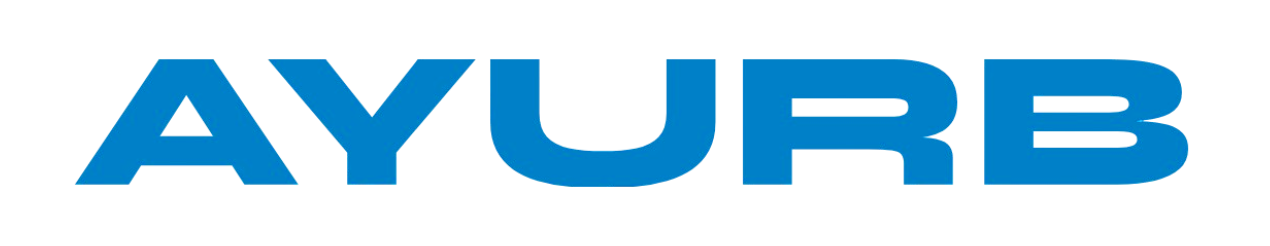
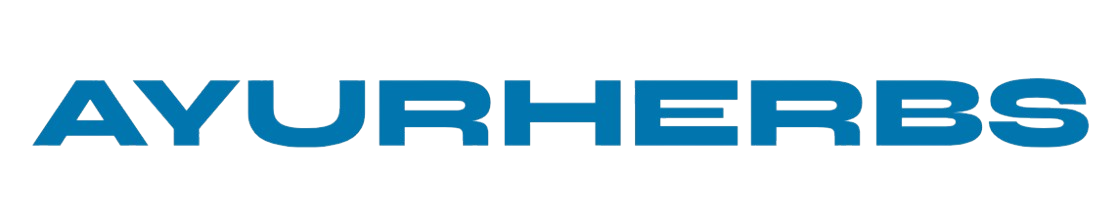
3 Changes
Added Quiz and fixed PopupStylings and Changes logo

diff --git a/src/pages/Home.jsx b/src/pages/Home.jsx
@@ -1,6 +1,7 @@
 import React, { useState } from 'react';
 import PlantCard from '../components/PlantCard';
 import Footer from '../components/Footer';
+import QuizPopup from '../components/QuizPopup';
 
 function Home() {
   // State to handle filter panel visibility
@@ -73,18 +74,18 @@ function Home() {
 
   // Plant data
   const plants = [
-    { imageSrc: '/images/tulsi.png', name: 'Tulsi', region: 'Tropical', type: 'Herb', ayush: 'Ayurveda', description: 'Tulsi, also known as holy basil, is a revered plant in Ayurveda known for its healing properties.', sketchfabModelUrl: 'https://sketchfab.com/models/3272493ccf6c4ede895f259905ef1db8/embed?autospin=1&autostart=1' },
-    { imageSrc: '/images/neem.png', name: 'Neem', region: 'Tropical', type: 'Tree', ayush: 'Ayurveda', description: 'Neem is a fast-growing tree used in traditional medicine for its antibacterial properties.', sketchfabModelUrl: 'https://sketchfab.com/models/03edef8009d942d3a3db6fa64cecbe56/embed?autospin=1&autostart=1' },
-    { imageSrc: '/images/aloevera.png', name: 'Aloe Vera', region: 'Tropical', type: 'Succulent', ayush: 'Ayurveda', description: 'Ashwagandha is a powerful herb in Ayurveda, known for its stress-relieving properties.', sketchfabModelUrl: 'https://sketchfab.com/models/66c6699e50ab4863989777f920a981dd/embed?autospin=1&autostart=1' },
-    { imageSrc: '/images/lavender.png', name: 'Lavender', region: 'Mediterranean', type: 'Flowering Plant', ayush: 'Naturopathy', description: 'Ashwagandha is a powerful herb in Ayurveda, known for its stress-relieving properties.', sketchfabModelUrl: 'https://sketchfab.com/models/08f35ae30b924678955b4bb483b86a70/embed?autospin=1&autostart=1' },
-    { imageSrc: '/images/sage.png', name: 'Sage', region: 'Temperate', type: 'Herb', ayush: 'Ayurveda', description: 'Ashwagandha is a powerful herb in Ayurveda, known for its stress-relieving properties.', sketchfabModelUrl: 'https://sketchfab.com/models/f41f028de9ca4be2b2e85df0820508ae/embed?autospin=1&autostart=1' },
-    { imageSrc: '/images/cactus.png', name: 'Cactus', region: 'Arid', type: 'Succulent', ayush: 'Naturopathy', description: 'Ashwagandha is a powerful herb in Ayurveda, known for its stress-relieving properties.', sketchfabModelUrl: 'https://sketchfab.com/models/01d773057954447a9abb7ae0c6c052af/embed?autospin=1&autostart=1' },
-    { imageSrc: '/images/dandelions.png', name: 'Dandelion', region: 'North America', type: 'Flowering Plant', ayush: 'Homeopathy', description: 'Ashwagandha is a powerful herb in Ayurveda, known for its stress-relieving properties.', sketchfabModelUrl: 'https://sketchfab.com/models/8a93f08947a4499b9ed19d2d47323242/embed?autospin=1&autostart=1' },
-    { imageSrc: '/images/eucalyptus.png', name: 'Eucalyptus', region: 'Temperate', type: 'Tree', ayush: 'Ayurveda', description: 'Ashwagandha is a powerful herb in Ayurveda, known for its stress-relieving properties.', sketchfabModelUrl: 'https://sketchfab.com/models/d021e7909df44e03b976c1374bfab9dc/embed?autospin=1&autostart=1' },
-    { imageSrc: '/images/hibiscus.png', name: 'Hibiscus', region: 'Tropical', type: 'Flowering Plant', ayush: 'Ayurveda', description: 'Ashwagandha is a powerful herb in Ayurveda, known for its stress-relieving properties.', sketchfabModelUrl: 'https://sketchfab.com/models/8992b6b94b094a069930104a32d5e9f5/embed?autospin=1&autostart=1' },
-    { imageSrc: '/images/rosemary.png', name: 'Rosemary', region: 'Mediterranean', type: 'Herb', ayush: 'Naturopathy', description: 'Ashwagandha is a powerful herb in Ayurveda, known for its stress-relieving properties.', sketchfabModelUrl: 'https://sketchfab.com/models/d5c0f249ff8a4d13840abf681bb92d29/embed?autospin=1&autostart=1' },
-    { imageSrc: '/images/ashwagandha.jpg', name: 'Ashwagandha', region: 'Arid', type: 'Shrub', ayush: 'Ayurveda', description: 'Ashwagandha is a powerful herb in Ayurveda, known for its stress-relieving properties.', sketchfabModelUrl: 'https://sketchfab.com/models/88b1bf03a6254dc2b56cec4dce3f22f1/embed?autospin=1&autostart=1' },
-    { imageSrc: '/images/ginger.png', name: 'Ginger', region: 'Tropical', type: 'Herb', ayush: 'Ayurveda', description: 'Ashwagandha is a powerful herb in Ayurveda, known for its stress-relieving properties.', sketchfabModelUrl: 'https://sketchfab.com/models/de8da99c3c1742708cd4ea858750b881/embed?autospin=1&autostart=1' },
+    { imageSrc: '/images/tulsi.png', name: 'Tulsi', region: 'Tropical', type: 'Herb', habitat: 'Ayurveda', description: 'Tulsi, also known as holy basil, is a revered plant in Ayurveda known for its healing properties.', sketchfabModelUrl: 'https://sketchfab.com/models/3272493ccf6c4ede895f259905ef1db8/embed?autospin=1&autostart=1' },
+    { imageSrc: '/images/neem.png', name: 'Neem', region: 'Tropical', type: 'Tree', habitat: 'Ayurveda', description: 'Neem is a fast-growing tree used in traditional medicine for its antibacterial properties.', sketchfabModelUrl: 'https://sketchfab.com/models/03edef8009d942d3a3db6fa64cecbe56/embed?autospin=1&autostart=1' },
+    { imageSrc: '/images/aloevera.png', name: 'Aloe Vera', region: 'Tropical', type: 'Succulent', habitat: 'Ayurveda', description: 'Ashwagandha is a powerful herb in Ayurveda, known for its stress-relieving properties.', sketchfabModelUrl: 'https://sketchfab.com/models/66c6699e50ab4863989777f920a981dd/embed?autospin=1&autostart=1' },
+    { imageSrc: '/images/lavender.png', name: 'Lavender', region: 'Mediterranean', type: 'Flowering Plant', habitat: 'Naturopathy', description: 'Ashwagandha is a powerful herb in Ayurveda, known for its stress-relieving properties.', sketchfabModelUrl: 'https://sketchfab.com/models/08f35ae30b924678955b4bb483b86a70/embed?autospin=1&autostart=1' },
+    { imageSrc: '/images/sage.png', name: 'Sage', region: 'Temperate', type: 'Herb', habitat: 'Ayurveda', description: 'Ashwagandha is a powerful herb in Ayurveda, known for its stress-relieving properties.', sketchfabModelUrl: 'https://sketchfab.com/models/f41f028de9ca4be2b2e85df0820508ae/embed?autospin=1&autostart=1' },
+    { imageSrc: '/images/cactus.png', name: 'Cactus', region: 'Arid', type: 'Succulent', habitat: 'Naturopathy', description: 'Ashwagandha is a powerful herb in Ayurveda, known for its stress-relieving properties.', sketchfabModelUrl: 'https://sketchfab.com/models/01d773057954447a9abb7ae0c6c052af/embed?autospin=1&autostart=1' },
+    { imageSrc: '/images/dandelions.png', name: 'Dandelion', region: 'North America', type: 'Flowering Plant', habitat: 'Homeopathy', description: 'Ashwagandha is a powerful herb in Ayurveda, known for its stress-relieving properties.', sketchfabModelUrl: 'https://sketchfab.com/models/8a93f08947a4499b9ed19d2d47323242/embed?autospin=1&autostart=1' },
+    { imageSrc: '/images/eucalyptus.png', name: 'Eucalyptus', region: 'Temperate', type: 'Tree', habitat: 'Ayurveda', description: 'Ashwagandha is a powerful herb in Ayurveda, known for its stress-relieving properties.', sketchfabModelUrl: 'https://sketchfab.com/models/d021e7909df44e03b976c1374bfab9dc/embed?autospin=1&autostart=1' },
+    { imageSrc: '/images/hibiscus.png', name: 'Hibiscus', region: 'Tropical', type: 'Flowering Plant', habitat: 'Ayurveda', description: 'Ashwagandha is a powerful herb in Ayurveda, known for its stress-relieving properties.', sketchfabModelUrl: 'https://sketchfab.com/models/8992b6b94b094a069930104a32d5e9f5/embed?autospin=1&autostart=1' },
+    { imageSrc: '/images/rosemary.png', name: 'Rosemary', region: 'Mediterranean', type: 'Herb', habitat: 'Naturopathy', description: 'Ashwagandha is a powerful herb in Ayurveda, known for its stress-relieving properties.', sketchfabModelUrl: 'https://sketchfab.com/models/d5c0f249ff8a4d13840abf681bb92d29/embed?autospin=1&autostart=1' },
+    { imageSrc: '/images/ashwagandha.jpg', name: 'Ashwagandha', region: 'Arid', type: 'Shrub', habitat: 'Ayurveda', description: 'Ashwagandha is a powerful herb in Ayurveda, known for its stress-relieving properties.', sketchfabModelUrl: 'https://sketchfab.com/models/88b1bf03a6254dc2b56cec4dce3f22f1/embed?autospin=1&autostart=1' },
+    { imageSrc: '/images/ginger.png', name: 'Ginger', region: 'Tropical', type: 'Herb', habitat: 'Ayurveda', description: 'Ashwagandha is a powerful herb in Ayurveda, known for its stress-relieving properties.', sketchfabModelUrl: 'https://sketchfab.com/models/de8da99c3c1742708cd4ea858750b881/embed?autospin=1&autostart=1' },
   ];
 
   // Filtered plants based on selected filters
@@ -112,39 +113,45 @@ function Home() {
     setShowBookmarks(!showBookmarks);
   };
 
+  // State for quiz popup
+  const [isQuizOpen, setIsQuizOpen] = useState(false);
+
+  // Function to toggle quiz popup
+  const toggleQuiz = () => {
+    setIsQuizOpen(!isQuizOpen);
+  };
+
   return (
     <>
       <div className="font-poppins">
         {/* Navbar */}
         <nav className="bg-white shadow-md fixed top-0 left-0 w-full z-30">
-          <div className="container mx-auto flex justify-between items-center py-4 px-8 pt-5">
+          <div className="container mx-auto flex items-center py-4 px-8">
             {/* Logo */}
-            <div className="text-black text-2xl font-semibold">
+            <div className="flex-shrink-0 text-black text-2xl font-semibold">
               <img src="/images/AYURB.png" alt="AYURB Logo" className="h-10" />
             </div>
 
-            {/* Middle: Links (Including Bookmarks) */}
-            <div className="absolute left-1/2 transform -translate-x-1/2">
-              <div className="flex space-x-8">
-                <a href="#home" className="pb-1 text-navbar-text border-b-2 border-transparent hover:border-sky-500 hover:text-sky-500 transition-colors duration-200">
-                  Home
-                </a>
-                <a href="#about" className="pb-1 text-navbar-text border-b-2 border-transparent hover:border-sky-500 hover:text-sky-500 transition-colors duration-200">
-                  About
-                </a>
-                <a href="#contact" className="pb-1 text-navbar-text border-b-2 border-transparent hover:border-sky-500 hover:text-sky-500 transition-colors duration-200">
-                  Contact
-                </a>
-                <button
-                  onClick={handleShowBookmarks}
-                  className="pb-1 text-navbar-text border-b-2 border-transparent hover:border-sky-500 hover:text-sky-500 transition-colors duration-200"
-                >
-                  Bookmarks
-                </button>
-              </div>
+            {/* Middle: Links */}
+            <div className="flex-grow flex justify-center space-x-8">
+              <a href="#home" className="pb-1 text-navbar-text border-b-2 border-transparent hover:border-sky-500 hover:text-sky-500 transition-colors duration-200">
+                Home
+              </a>
+              <a href="#about" className="pb-1 text-navbar-text border-b-2 border-transparent hover:border-sky-500 hover:text-sky-500 transition-colors duration-200">
+                About
+              </a>
+              <a href="#contact" className="pb-1 text-navbar-text border-b-2 border-transparent hover:border-sky-500 hover:text-sky-500 transition-colors duration-200">
+                Contact
+              </a>
+              <button
+                onClick={handleShowBookmarks}
+                className="pb-1 text-navbar-text border-b-2 border-transparent hover:border-sky-500 hover:text-sky-500 transition-colors duration-200"
+              >
+                Bookmarks
+              </button>
             </div>
 
-            {/* Right Side: Search Bar, Filter, and Bookmarks */}
+            {/* Right Side: Search Bar, Filter, and Quiz */}
             <div className="flex items-center space-x-4">
               {/* Search Box */}
               <div className="flex items-center w-80">
@@ -166,6 +173,14 @@ function Home() {
                 <i className="fa-solid fa-filter mr-2"></i>Filter
               </button>
 
+              {/* Quiz Button */}
+              <button
+                onClick={toggleQuiz}
+                className="px-4 py-2 border border-main-color text-main-color rounded-xl bg-sec-color hover:bg-main-color hover:text-white transition-colors duration-200"
+              >
+                <i className="fa-solid fa-question-circle mr-2"></i>Quiz
+              </button>
+
               {/* Bookmarks Tab
               <div>
                 <button
@@ -175,9 +190,9 @@ function Home() {
                   <i className="fa-solid fa-bookmark mr-2"></i>{showBookmarks ? 'Show All' : 'Bookmarks'}
                 </button>
               </div> */}
-            </div>
-          </div>
-        </nav>
+            </div >
+          </div >
+        </nav >
 
         {/* Filter Slider (Fixed with Transparency and Blur Effect) */}
         <div
@@ -282,41 +297,56 @@ function Home() {
             </button>
 
             {/* Popup Content */}
-            <div className="grid grid-cols-2 gap-4">
+            <div className=" grid grid-cols-2 grid-rows-2 gap-4">
               {/* Left side: 3D Model and Multimedia */}
-              <div>
+              <div className="row-span-1">
                 <iframe
                   title={selectedPlant.name}
                   src={selectedPlant.sketchfabModelUrl}
                   frameBorder="0"
                   allowFullScreen
-                  className="w-full h-96"
+                  className="w-full h-72"
                 ></iframe>
               </div>
 
               {/* Right side: Plant Info */}
-              <div>
-                <h2 className="text-3xl font-bold">{selectedPlant.name}</h2>
-                <p className="mt-4 text-lg">{selectedPlant.description}</p>
+              <div className="row-span-1 ml-4 leading-8">
+                <h2 className="text-xl font-semibold mb-2">{selectedPlant.name}</h2>
+                <p className="mt-4 text-lg">{selectedPlant.description}</p> {/* Here in the plant information we have to add Botanical Name, Common Name, Medicinal Uses and How to Find it. */}
                 <div className="mt-4">
-                  <h4 className="text-xl font-semibold">Region: {selectedPlant.region}</h4>
-                  <h4 className="text-xl font-semibold">Type: {selectedPlant.type}</h4>
-                  <h4 className="text-xl font-semibold">Ayush System: {selectedPlant.ayush}</h4>
+                  <p><b>Region:</b> {selectedPlant.region}</p>
+                  <p><b>Type:</b> {selectedPlant.type}</p>
+                  <p><b>Habitat:</b> {selectedPlant.habitat}</p>
                 </div>
               </div>
-            </div>
 
-            {/* Notes Section */}
-            <div className="mt-8">
-              <h3 className="text-2xl font-semibold">Notes:</h3>
-              <textarea id="notes-textarea" className="w-full p-2 mt-2 border rounded-md"></textarea>
-              <div className="mt-4">
-                <button onClick={handleDownloadNotes} className="px-4 py-2 bg-green-500 text-white rounded-md">
+              {/* Section 3: Multimedia (Bottom Left) */}
+              <div className="row-span-1 mt-5">
+                <img src={selectedPlant.imageSrc} alt={selectedPlant.name} className="h-64 object-cover w-full" />
+              </div>
+
+              {/* Section 4: Notes */}
+              <div className="row-span-1 p-4 mt-5">
+                <h3 className="text-xl font-semibold mb-5">Notes :</h3>
+                <textarea
+                  id="notes-textarea"
+                  rows="5"
+                  className="w-full p-2 border rounded-md"
+                  placeholder="Write your notes here..."
+                ></textarea>
+                <button
+                  className="mt-2 px-4 py-2 bg-green-500 text-white rounded hover:bg-green-600"
+                  onClick={handleDownloadNotes}
+                >
                   Download Notes
                 </button>
-                <button onClick={handleShareNotes} className="ml-4 px-4 py-2 bg-blue-500 text-white rounded-md">
-                  Share Notes
+                <button
+                  className="mt-2 px-4 py-2 bg-main-color text-white rounded ml-2 hover:bg-blue-900"
+                  onClick={handleShareNotes}
+                >
+                  Share
                 </button>
+
               </div>
             </div>
           </div>
@@ -355,6 +385,8 @@ function Home() {
         )}
       </div>
       <Footer />
+      {/* Quiz Popup */}
+      <QuizPopup isOpen={isQuizOpen} onClose={() => setIsQuizOpen(false)} />
     </>
   );
 }

diff --git a/src/components/QuizPopup.jsx b/src/components/QuizPopup.jsx
@@ -1,0 +1,91 @@
+import React, { useState } from 'react';
+
+const QuizPopup = ({ isOpen, onClose }) => {
+  const [currentQuestion, setCurrentQuestion] = useState(0);
+  const [answers, setAnswers] = useState([]);
+  const [isQuizComplete, setIsQuizComplete] = useState(false);
+
+  const questions = [
+    {
+      question: 'Which plant is known as Holy Basil?',
+      options: ['Tulsi', 'Neem', 'Aloe Vera', 'Lavender'],
+      answer: 'Tulsi',
+    },
+    {
+      question: 'Which plant is used for its antibacterial properties?',
+      options: ['Neem', 'Cactus', 'Hibiscus', 'Rosemary'],
+      answer: 'Neem',
+    },
+    // Add more questions as needed
+  ];
+
+  const handleAnswer = (answer) => {
+    setAnswers([...answers, answer]);
+    if (currentQuestion === questions.length - 1) {
+      setIsQuizComplete(true);
+    } else {
+      setCurrentQuestion(currentQuestion + 1);
+    }
+  };
+
+  const handleClose = () => {
+    setCurrentQuestion(0);
+    setAnswers([]);
+    setIsQuizComplete(false);
+    onClose();
+  };
+
+  if (!isOpen) return null;
+
+  return (
+    <div className="fixed inset-0 flex items-center justify-center z-40 bg-black bg-opacity-50">
+      <div className="bg-white rounded-lg p-8 w-4/5 max-w-md relative">
+        <button
+          onClick={handleClose}
+          className="absolute top-2 right-2 text-3xl font-medium text-gray-600 hover:text-red-500"
+        >
+          &times;
+        </button>
+
+        <div>
+          {isQuizComplete ? (
+            <div>
+              <h2 className="text-2xl font-bold">Quiz Completed!</h2>
+              <p className="mt-4">Your answers:</p>
+              <ul>
+                {questions.map((q, index) => (
+                  <li key={index} className="mt-2">
+                    {q.question} <span className="font-semibold">Your answer: {answers[index]}</span>
+                  </li>
+                ))}
+              </ul>
+              <button
+                onClick={handleClose}
+                className="mt-4 px-4 py-2 bg-blue-500 text-white rounded hover:bg-blue-600"
+              >
+                Close
+              </button>
+            </div>
+          ) : (
+            <div>
+              <h2 className="text-2xl font-bold">{questions[currentQuestion].question}</h2>
+              <div className="mt-4">
+                {questions[currentQuestion].options.map((option, index) => (
+                  <button
+                    key={index}
+                    onClick={() => handleAnswer(option)}
+                    className="block w-full px-4 py-2 mb-2 text-left bg-gray-100 border border-gray-300 rounded hover:bg-gray-200"
+                  >
+                    {option}
+                  </button>
+                ))}
+              </div>
+            </div>
+          )}
+        </div>
+      </div>
+    </div>
+  );
+};
+
+export default QuizPopup;
